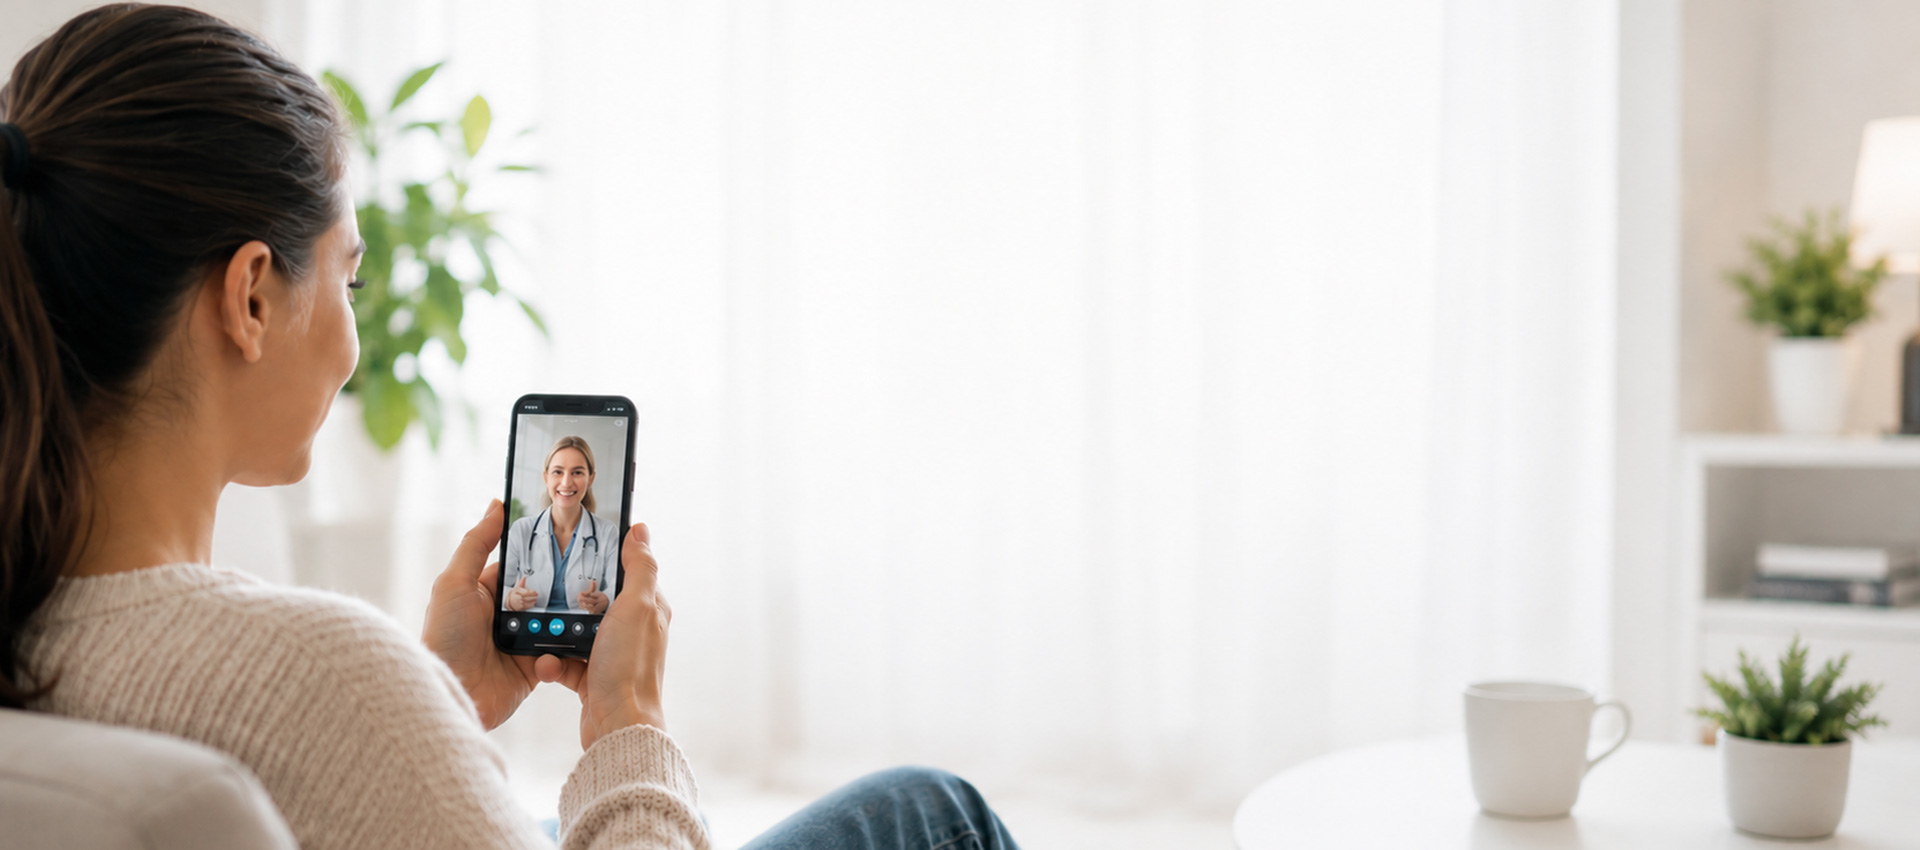
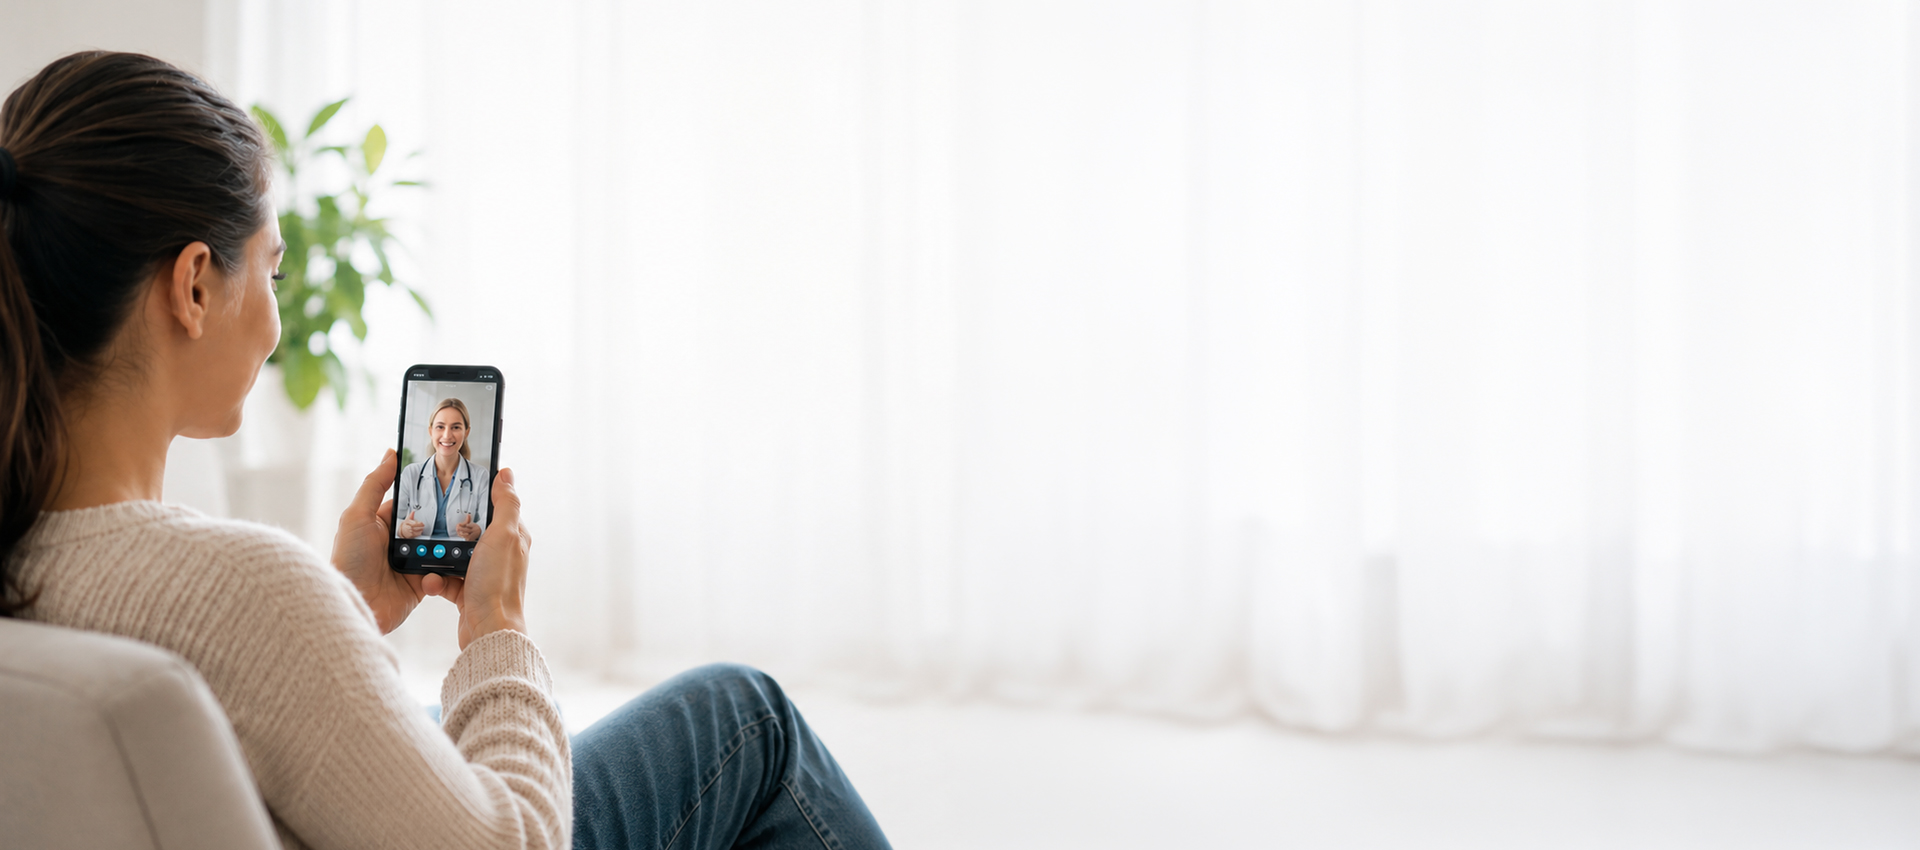
fix: hero layout polish - trust badges below hero, chatbox spacing, new bg image
- Trust badges moved out of hero onto white background above AI chatbox
- AI chatbox margin reduced (closer to trust badges)
- 35px padding below AI disclaimer text
- Hero pushed below nav bar (mt-16 aligns with nav bottom)
- Replaced hero background with hero_Backgrond2.jpg

diff --git a/resources/views/welcome.blade.php b/resources/views/welcome.blade.php
@@ -17,8 +17,8 @@
     @include('partials.public-nav')
 
     <!-- Hero -->
-    <section class="pt-28 pb-16 lg:pt-32 lg:pb-20 bg-cover bg-center bg-no-repeat" style="background-image: url('/images/hero-bg.jpg');">
-        <div class="max-w-7xl mx-auto px-4 sm:px-6 lg:px-8">
+    <section class="mt-16 pb-16 lg:pb-20 bg-cover bg-center bg-no-repeat" style="background-image: url('/images/hero-bg.jpg');">
+        <div class="max-w-7xl mx-auto px-4 sm:px-6 lg:px-8 pt-16 lg:pt-20">
             <div class="text-center max-w-3xl mx-auto">
                 <div class="inline-flex items-center bg-zapmed-50 text-zapmed-700 px-4 py-1.5 rounded-full text-sm font-medium mb-8">
                     <span class="w-2 h-2 bg-zapmed-500 rounded-full mr-2 animate-pulse"></span>
@@ -43,32 +43,36 @@
                     </a>
                 </div>
 
-                <!-- Trust badges (on the hero image) -->
-                <div class="mt-12 flex flex-wrap items-center justify-center gap-x-8 gap-y-4 text-sm text-gray-600">
-                    <div class="flex items-center space-x-2">
-                        <svg class="w-5 h-5 text-zapmed-500" fill="currentColor" viewBox="0 0 20 20"><path fill-rule="evenodd" d="M2.166 4.999A11.954 11.954 0 0010 1.944 11.954 11.954 0 0017.834 5c.11.65.166 1.32.166 2.001 0 5.225-3.34 9.67-8 11.317C5.34 16.67 2 12.225 2 7c0-.682.057-1.35.166-2.001zm11.541 3.708a1 1 0 00-1.414-1.414L9 10.586 7.707 9.293a1 1 0 00-1.414 1.414l2 2a1 1 0 001.414 0l4-4z" clip-rule="evenodd"/></svg>
-                        <span>Licensed SA Doctors</span>
-                    </div>
-                    <div class="flex items-center space-x-2">
-                        <svg class="w-5 h-5 text-zapmed-500" fill="currentColor" viewBox="0 0 20 20"><path d="M8 16.5a1.5 1.5 0 11-3 0 1.5 1.5 0 013 0zM15 16.5a1.5 1.5 0 11-3 0 1.5 1.5 0 013 0z"/><path d="M3 4a1 1 0 00-1 1v10a1 1 0 001 1h1.05a2.5 2.5 0 014.9 0H10a1 1 0 001-1V5a1 1 0 00-1-1H3zM14 7a1 1 0 00-1 1v6.05A2.5 2.5 0 0115.95 16H17a1 1 0 001-1v-5a1 1 0 00-.293-.707l-2-2A1 1 0 0015 7h-1z"/></svg>
-                        <span>Delivered to Your Door</span>
-                    </div>
-                    <div class="flex items-center space-x-2">
-                        <svg class="w-5 h-5 text-zapmed-500" fill="currentColor" viewBox="0 0 20 20"><path fill-rule="evenodd" d="M5 9V7a5 5 0 0110 0v2a2 2 0 012 2v5a2 2 0 01-2 2H5a2 2 0 01-2-2v-5a2 2 0 012-2zm8-2v2H7V7a3 3 0 016 0z" clip-rule="evenodd"/></svg>
-                        <span>Discreet & Confidential</span>
-                    </div>
-                    <div class="flex items-center space-x-2">
-                        <svg class="w-5 h-5 text-zapmed-500" fill="currentColor" viewBox="0 0 20 20"><path fill-rule="evenodd" d="M4 4a2 2 0 00-2 2v4a2 2 0 002 2V6h10a2 2 0 00-2-2H4zm2 6a2 2 0 012-2h8a2 2 0 012 2v4a2 2 0 01-2 2H8a2 2 0 01-2-2v-4zm6 4a2 2 0 100-4 2 2 0 000 4z" clip-rule="evenodd"/></svg>
-                        <span>Regulated Pharmacy Partners</span>
-                    </div>
                 </div>
             </div>
         </div>
     </section>
+
+    <!-- Trust badges (white background, above AI chat) -->
+    <div class="py-8 px-4 sm:px-6 lg:px-8">
+        <div class="flex flex-wrap items-center justify-center gap-x-8 gap-y-4 text-sm text-gray-600">
+            <div class="flex items-center space-x-2">
+                <svg class="w-5 h-5 text-zapmed-500" fill="currentColor" viewBox="0 0 20 20"><path fill-rule="evenodd" d="M2.166 4.999A11.954 11.954 0 0010 1.944 11.954 11.954 0 0017.834 5c.11.65.166 1.32.166 2.001 0 5.225-3.34 9.67-8 11.317C5.34 16.67 2 12.225 2 7c0-.682.057-1.35.166-2.001zm11.541 3.708a1 1 0 00-1.414-1.414L9 10.586 7.707 9.293a1 1 0 00-1.414 1.414l2 2a1 1 0 001.414 0l4-4z" clip-rule="evenodd"/></svg>
+                <span>Licensed SA Doctors</span>
+            </div>
+            <div class="flex items-center space-x-2">
+                <svg class="w-5 h-5 text-zapmed-500" fill="currentColor" viewBox="0 0 20 20"><path d="M8 16.5a1.5 1.5 0 11-3 0 1.5 1.5 0 013 0zM15 16.5a1.5 1.5 0 11-3 0 1.5 1.5 0 013 0z"/><path d="M3 4a1 1 0 00-1 1v10a1 1 0 001 1h1.05a2.5 2.5 0 014.9 0H10a1 1 0 001-1V5a1 1 0 00-1-1H3zM14 7a1 1 0 00-1 1v6.05A2.5 2.5 0 0115.95 16H17a1 1 0 001-1v-5a1 1 0 00-.293-.707l-2-2A1 1 0 0015 7h-1z"/></svg>
+                <span>Delivered to Your Door</span>
+            </div>
+            <div class="flex items-center space-x-2">
+                <svg class="w-5 h-5 text-zapmed-500" fill="currentColor" viewBox="0 0 20 20"><path fill-rule="evenodd" d="M5 9V7a5 5 0 0110 0v2a2 2 0 012 2v5a2 2 0 01-2 2H5a2 2 0 01-2-2v-5a2 2 0 012-2zm8-2v2H7V7a3 3 0 016 0z" clip-rule="evenodd"/></svg>
+                <span>Discreet & Confidential</span>
+            </div>
+            <div class="flex items-center space-x-2">
+                <svg class="w-5 h-5 text-zapmed-500" fill="currentColor" viewBox="0 0 20 20"><path fill-rule="evenodd" d="M4 4a2 2 0 00-2 2v4a2 2 0 002 2V6h10a2 2 0 00-2-2H4zm2 6a2 2 0 012-2h8a2 2 0 012 2v4a2 2 0 01-2 2H8a2 2 0 01-2-2v-4zm6 4a2 2 0 100-4 2 2 0 000 4z" clip-rule="evenodd"/></svg>
+                <span>Regulated Pharmacy Partners</span>
+            </div>
+        </div>
+    </div>
             <!-- AI Health Assistant — now a floating widget -->
 
             <!-- Inline AI Chat (Homepage only) -->
-            <div class="max-w-2xl mx-auto" style="margin-top: 35px;" x-data="aiChatWidget()">
+            <div class="max-w-2xl mx-auto" style="margin-top: 5px;" x-data="aiChatWidget()">
                 <div class="bg-white rounded-2xl shadow-lg border border-gray-100 overflow-hidden">
                     <div class="p-5 border-b border-gray-50">
                         <div class="flex items-center space-x-3">
@@ -134,7 +138,7 @@
                         </button>
                     </form>
                 </div>
-                <p class="text-center text-xs text-gray-400 mt-3">Powered by AI. Not a substitute for medical advice — always consult a doctor.</p>
+                <p class="text-center text-xs text-gray-400 mt-3" style="padding-bottom: 35px;">Powered by AI. Not a substitute for medical advice — always consult a doctor.</p>
             </div>
         </div>
     </section>
